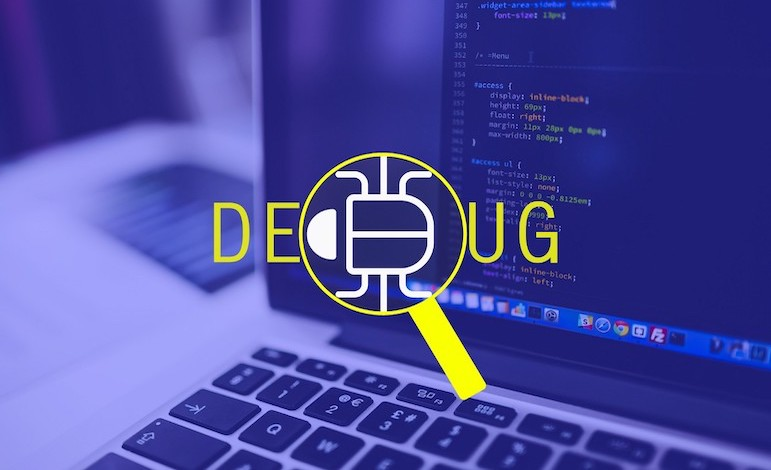
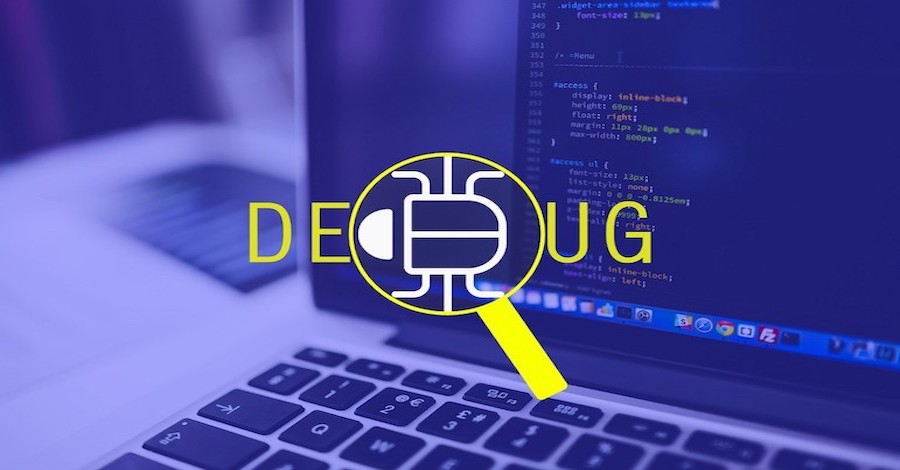
resized images to be all same dims

diff --git a/src/components/Header.js b/src/components/Header.js
@@ -1,6 +1,6 @@
 import React from "react";
 // Here we are importing a CSS file as a dependency
-import "../styles/Header.css";
+import "../styles/Header.css";c
 
 function Header() {
   return (
